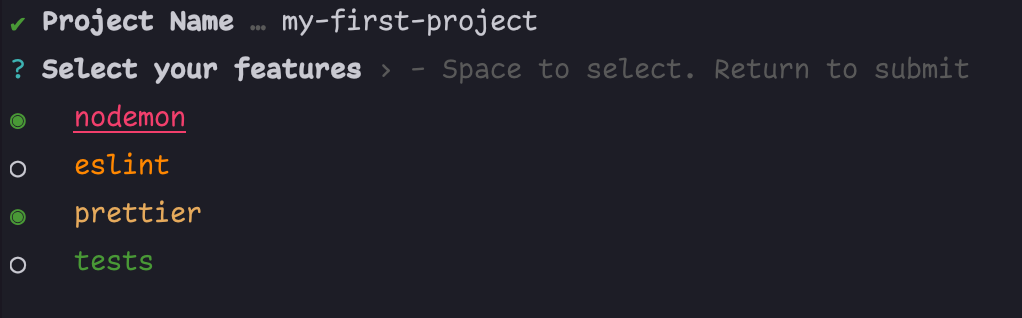
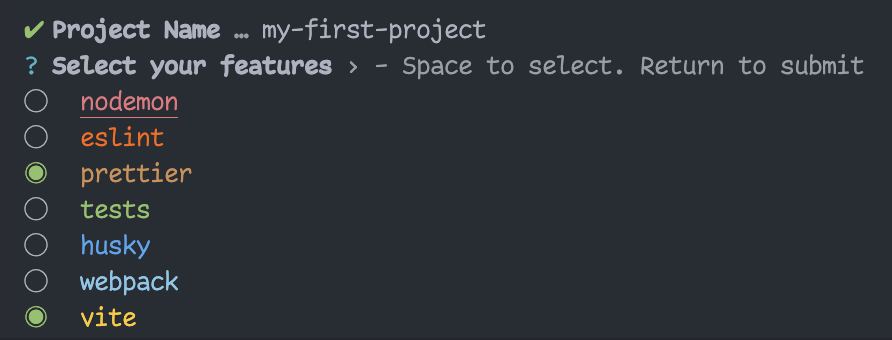
updated readme

diff --git a/README.md b/README.md
@@ -6,11 +6,13 @@
 `create-pro-ts-lib` is a CLI tool to quickly start a Typescript library from a rigid customizable template.
 
 - built-in templates for:
-    <br/>[📂 Nodemon](https://nodemon.io/)
-    <br/>[🧪 Tests [Jest]](https://jestjs.io/)
+    <br/>[🕵🏻♀ Nodemon](https://nodemon.io/)
+    <br/>[🧪 Tests [Vitest]](https://vitest.dev/)
     <br/>[✨ Prettier](https://prettier.io/)
     <br/>[👮🏻 Eslint](https://eslint.org/)
     <br/>[🐶 Husky](https://github.com/typicode/husky)
+    <br/>[🧊 Webpack5](https://webpack.js.org/)
+    <br/>[⚡ Vite](https://vitejs.dev/)
 
 these templates can be combined to allow maximum flexibility for your library.
 
@@ -61,7 +63,7 @@ This would do the same:
 npx cptl
 ```
 
-# It's Not Only for Libraries
+## It's Not Only for Libraries
 
 <p style="font-size: 16px; font-weight: bold">
     You can use it for <span style="color:#11CCEE">projects</span> as well, but remember:
@@ -78,18 +80,19 @@ npx cptl
 - change `package.json` accordingly
 
   - `licence`
-  - `files` - remove entirely
+  - `files` - remove
   - `private: true`
+  - `module` - remove
   - etc...
 
 - have fun programming `:)`
 
-## CLI Examples
+### CLI Examples
 
-Due to pro-ts-lib *incredible flexibility*, there are many aspects of the boilerplate which you can change via
+Due to pro-ts-lib **incredible flexibility**, there are many aspects of the boilerplate which you can change via
 flags in the CLI.
 
-This next example creates a new Typescript project with *nodemon* `-n` and *prettier* `-p` called `my-project`
+This next example creates a new Typescript project with **nodemon** `-n` and **prettier** `-p` called `my-project`
 .
 
 ```bash
@@ -111,17 +114,21 @@ To install everything, use `--all` flag
 npm create pro-ts-lib my-project --all
 ```
 
-# Options
+## Options
 
 Each feature has its own flag:
 
 - Tests `--tests` / `-t`
 - Nodemon `--nodemon` / `-n`
-- Prrettier `--prettier` / `-p`
-- etc...⚡
+- Prettier `--prettier` / `-p`
+- Eslint `--eslint` / `-e`
+- Vite `--vite` / `--vi`
+- Webpack5 `--webpack` / `-w`
 
-# Advanced Options ⚠
 
+## Advanced Options ⚠
+
+### Other Flags
 There are other flags that help you customize your boilerplate:
 
 - `--name` - determine a different name than your directory name
@@ -135,6 +142,36 @@ There are also options to handle the CLI:
 
 - `--dry`🏜 - run the CLI with no consequences.
 - `--no-color`🎨 - run CLI output without color.
+
+### Vite / Webpack partial build
+
+In vite/webpack projects, you can specify whether you want your build to output commonjs, esm, or both (default is both).
+
+To output only commonjs files, use `COMMON_ONLY` variable before executing the build.
+
+example when using vite:
+
+package.json:
+```json
+{
+    "scripts": "COMMON_ONLY=true vite build" 
+}
+```
+
+However, if you want to output only esm files, use `ESM_ONLY` variable before executing the build:
+
+example when using webpack:
+
+package.json:
+```json
+{
+    "scripts": "ESM_ONLY=true webpack"
+}
+```
+
+> NOTE: Both `COMMON_ONLY` and `ESM_ONLY` will work for both `vite` and `webpack`.
+
+> NOTE: You cannot use both variables at the same time. This will throw an error saying youre an idiot because you didnt read it <b style="font-size: 1.1rem">bundles to both commonjs and esm by default.</b> 
 
 ## Note
 
